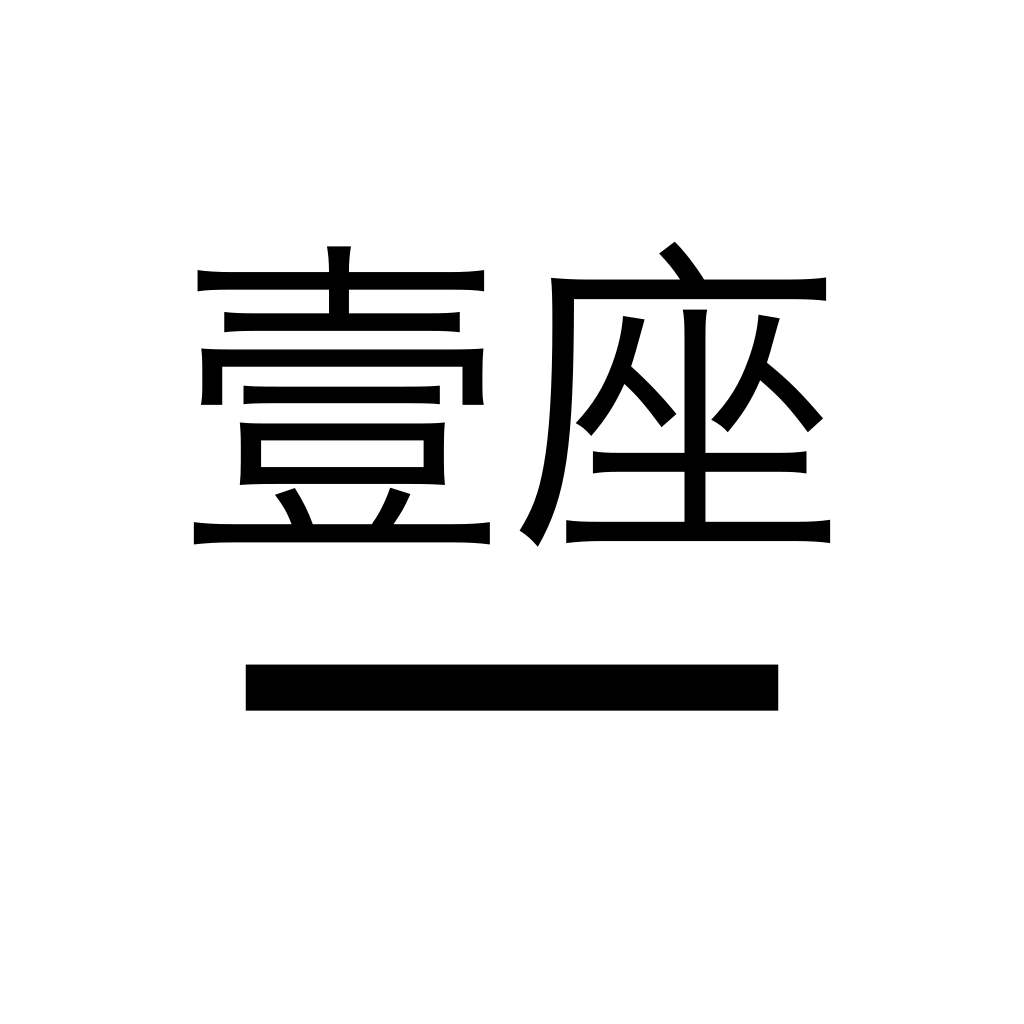
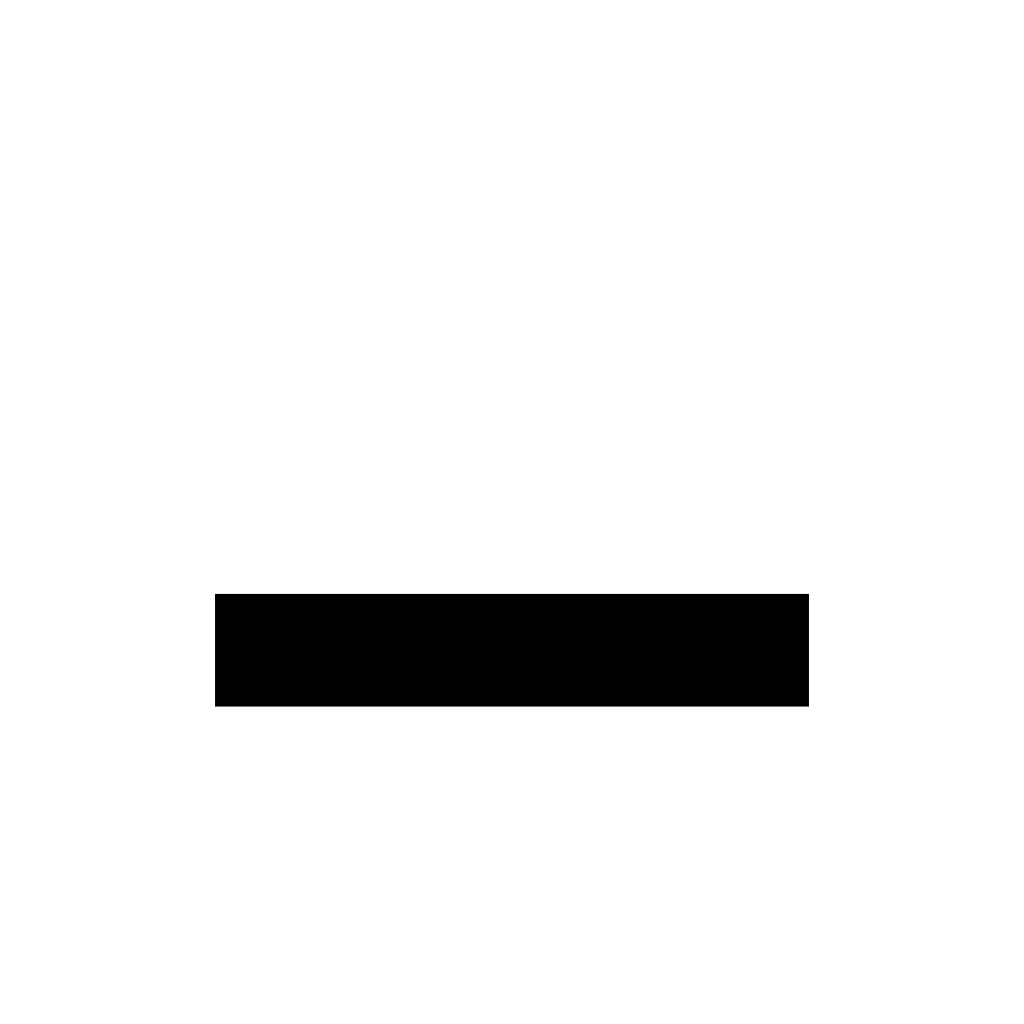
feat(brand): 图标分拆——带名字的只留大图标面，软件图标=一根「一」
用户 2026-10-28 定调：大图标/品牌面 = 「壹座」+一根横线不变（assets/brand/icon.svg）；
软件图标本体全部改为白底+一根粗横线「一」（58% 宽、11% 厚，中心居品牌基准位 ~64%）。
覆盖 build/icon.png、app 全家桶（icon/adaptive fg/mono/favicon/splash）、expo.icon symbol SVG、
web/public/icon.svg。生成器留在 scripts/brand-icon.py。

Changed region(s): [[0.1875, 0.2188, 0.8125, 0.5312], [0.1875, 0.5625, 0.8125, 0.7188]]

diff --git a/scripts/brand-icon.py b/scripts/brand-icon.py
@@ -1,23 +1,27 @@
 #!/usr/bin/env python3
 # ── 寻数壹座 图标资产生成器 ─────────────────────────────────────────────────
 #
-# 源真值（唯一一处可改）：白底 + 黑色「壹座」字标 + 一根横线。文字经
-# fontTools 从系统 PingFang.ttc 提取字形轮廓写成 path —— 任何机器跑出来的
-# 位图/矢量完全一致，不依赖渲染方是否有中文字体。
+# 两种标（决议 2026-10-28，用户亲授）：
+#   大图标/品牌面   = 白底 + 黑色「壹座」字标 + 一根横线（assets/brand/icon.svg）
+#   软件图标本体     = 白底 + 一根粗些的「一」横线，不要名字（所有打包/安装/层级切换图）
+#
+# 字标经 fontTools 从系统 PingFang/Hiragino 提取字形轮廓写成 path —— 任何
+# 机器跑出来的位图/矢量完全一致，不依赖渲染方是否有中文字体。
 #
 # 产出（都是被 git 跟踪或构建消费的既有路径，本脚本全面覆写）：
-#   assets/brand/icon.svg                 主矢量（白底，文档用）
-#   assets/brand/icon-mark.svg            纯标记矢量（无背景，SVG 源）
-#   build/icon.png                        1024（electron-builder win/lin 源）
-#   build/icon.icns                       macOS 全套 iconutil
-#   app/assets/images/icon.png                             1024
-#   app/assets/images/android-icon-foreground.png          1024（安全区 centred）
-#   app/assets/images/android-icon-background.png          1024（纯白）
-#   app/assets/images/android-icon-monochrome.png          1024（黑 mark，透明底）
-#   app/assets/images/favicon.png                          64
-#   app/assets/images/splash-icon.png                      1024（安全区 centred）
-#   app/assets/expo.icon/Assets/expo-symbol 2.svg          纯标记矢量（iOS 用）
-#   web/public/icon.svg                   favicon（白底 96 viewBox 缩略）
+#   assets/brand/icon.svg                 大图标主矢量（白底，带名字，品牌/文档用）
+#   assets/brand/icon-mark.svg            大图标纯标记矢量（无背景）
+#   assets/brand/icon-app.svg             软件图标主矢量（白底，只一根「一」）
+#   build/icon.png                        1024 软件图标（electron-builder win/lin 源）
+#   build/icon.icns                       macOS 全套（iconutil；gitignored，本地 dist 用）
+#   app/assets/images/icon.png                             1024 软件图标
+#   app/assets/images/android-icon-foreground.png          1024 安全区（仅一根「一」）
+#   app/assets/images/android-icon-background.png          1024 纯白
+#   app/assets/images/android-icon-monochrome.png          1024 黑「一」，透明底
+#   app/assets/images/favicon.png                          64 软件图标
+#   app/assets/images/splash-icon.png                      1024 安全区（仅一根「一」）
+#   app/assets/expo.icon/Assets/expo-symbol 2.svg          纯「一」矢量（iOS 用）
+#   web/public/icon.svg                   favicon（软件图标=一根「一」）
 #
 # 用法：python3 scripts/brand-icon.py         （需要 PIL、fontTools、rsvg-convert、iconutil）
 
@@ -52,9 +56,16 @@ BAR_GAP = 0.115 * CANVAS     # 字标底线到横线顶的距离
 EXPORTS = {
     "master_svg": "assets/brand/icon.svg",
     "mark_svg": "assets/brand/icon-mark.svg",
+    "app_svg": "assets/brand/icon-app.svg",
     "symbol_svg": "app/assets/expo.icon/Assets/expo-symbol 2.svg",
     "favicon_svg": "web/public/icon.svg",
 }
+
+# 软件图标本体（决议：不要名字）——一根粗横线「一」，x 居中，y 落在品牌
+# 基准线（即字标图里横线的同一位置），保证小尺寸依然可读。
+APP_BAR_WIDE = 0.58 * CANVAS
+APP_BAR_HIGH = 0.11 * CANVAS
+APP_BAR_Y = 0.635 * CANVAS  # 粗线中心 y ≈ 与主图标横线同一水平线
 
 
 def pick_font():
@@ -190,6 +201,21 @@ def bbox_of_png(png_path):
     return inverse.getbbox(), img.size
 
 
+def app_bar_svg(ground=GROUND, show_ground=True):
+    """软件图标本体：居中一根「一」。safe 变体靠调用方给的透明度/尺寸。"""
+    x = CANVAS / 2.0 - APP_BAR_WIDE / 2.0
+    y = APP_BAR_Y - APP_BAR_HIGH / 2.0
+    parts = [f'<rect x="{x:.2f}" y="{y:.2f}" width="{APP_BAR_WIDE:.2f}" height="{APP_BAR_HIGH:.2f}" fill="{BLOCK}"/>']
+    if show_ground:
+        parts.insert(0, f'<rect width="{CANVAS}" height="{CANVAS}" fill="{ground}"/>')
+    return (
+        '<?xml version="1.0" encoding="UTF-8"?>\n'
+        f'<svg xmlns="http://www.w3.org/2000/svg" viewBox="0 0 {CANVAS} {CANVAS}">\n'
+        + "\n".join(parts)
+        + "\n</svg>\n"
+    )
+
+
 def main():
     root = os.path.dirname(os.path.dirname(os.path.abspath(__file__)))
     os.chdir(root)
@@ -197,48 +223,38 @@ def main():
     comp = compose(WORD, font, WORDS_WIDE, BAR_WIDE, BAR_HIGH, BAR_GAP)
 
     os.makedirs("assets/brand", exist_ok=True)
-    symbol_only = svg_doc(comp, ground=GROUND, show_ground=False)
     full = svg_doc(comp, ground=GROUND, show_ground=True)
+    mark = svg_doc(comp, ground=GROUND, show_ground=False)
     for path, text in (
         (EXPORTS["master_svg"], full),
-        (EXPORTS["mark_svg"], symbol_only),
-        (EXPORTS["symbol_svg"], symbol_only),
-        (EXPORTS["favicon_svg"], full.replace(f"viewBox=\"0 0 {CANVAS} {CANVAS}\"", 'viewBox="0 0 1024 1024"')),
+        (EXPORTS["mark_svg"], mark),
+        (EXPORTS["app_svg"], app_bar_svg()),
+        (EXPORTS["symbol_svg"], app_bar_svg(show_ground=False)),
+        (EXPORTS["favicon_svg"], app_bar_svg()),
     ):
         os.makedirs(os.path.dirname(path), exist_ok=True)
         with open(path, "w", encoding="utf-8") as fh:
             fh.write(text)
 
-    # 1) 桌面：icon.png（白底）+ icon.icns
+    # 1) 桌面：软件图标（一根「一」，白底）
     os.makedirs("build", exist_ok=True)
-    rasterize(EXPORTS["master_svg"], "build/icon.png", CANVAS)
+    rasterize(EXPORTS["app_svg"], "build/icon.png", CANVAS)
     icns_from_square("build/icon.png", "build/icon.icns", "build")
 
-    # 2) App：主图标 + adaptive（安全区内）+ monochrome + favicon + splash
+    # 2) App 全家桶（软件图标同样不要名字）
     app_dir = "app/assets/images"
     os.makedirs(app_dir, exist_ok=True)
-    # 主图标与主矢量一致
-    rasterize(EXPORTS["master_svg"], f"{app_dir}/icon.png", CANVAS)
-    # adaptive：同 composition 改用安全区布局
-    safe = compose(
-        WORD, font,
-        target_width=0.42 * CANVAS,
-        bar_width=0.5 * CANVAS,
-        bar_thickness=0.055 * CANVAS,
-        gap_above_bar=0.09 * CANVAS,
-    )
-    safe_svg = "build/.icon-safe.svg"
+    rasterize(EXPORTS["app_svg"], f"{app_dir}/icon.png", CANVAS)
+    safe_svg = "build/.icon-app-safe.svg"
     with open(safe_svg, "w", encoding="utf-8") as fh:
-        fh.write(svg_doc(safe, show_ground=False))
+        fh.write(app_bar_svg(show_ground=False))
     rasterize(safe_svg, f"{app_dir}/android-icon-foreground.png", CANVAS)
     rasterize(safe_svg, f"{app_dir}/android-icon-monochrome.png", CANVAS)
     rasterize(safe_svg, f"{app_dir}/splash-icon.png", CANVAS)
-    # adaptive background = 纯白
     Image.new("RGB", (CANVAS, CANVAS), GROUND).save(f"{app_dir}/android-icon-background.png")
-    # favicon：白底主图缩略
-    rasterize(EXPORTS["master_svg"], f"{app_dir}/favicon.png", 64)
+    rasterize(EXPORTS["app_svg"], f"{app_dir}/favicon.png", 64)
 
-    # 3）保守的验证输出：尺寸 + 绾合区，供下方手工查討
+    # 3) 保守的验证输出
     bbox, sz = bbox_of_png("build/icon.png")
     print(f"build/icon.png {sz}, ink bbox={bbox}")
     for f in ["icon.png", "icon.icns"]:
